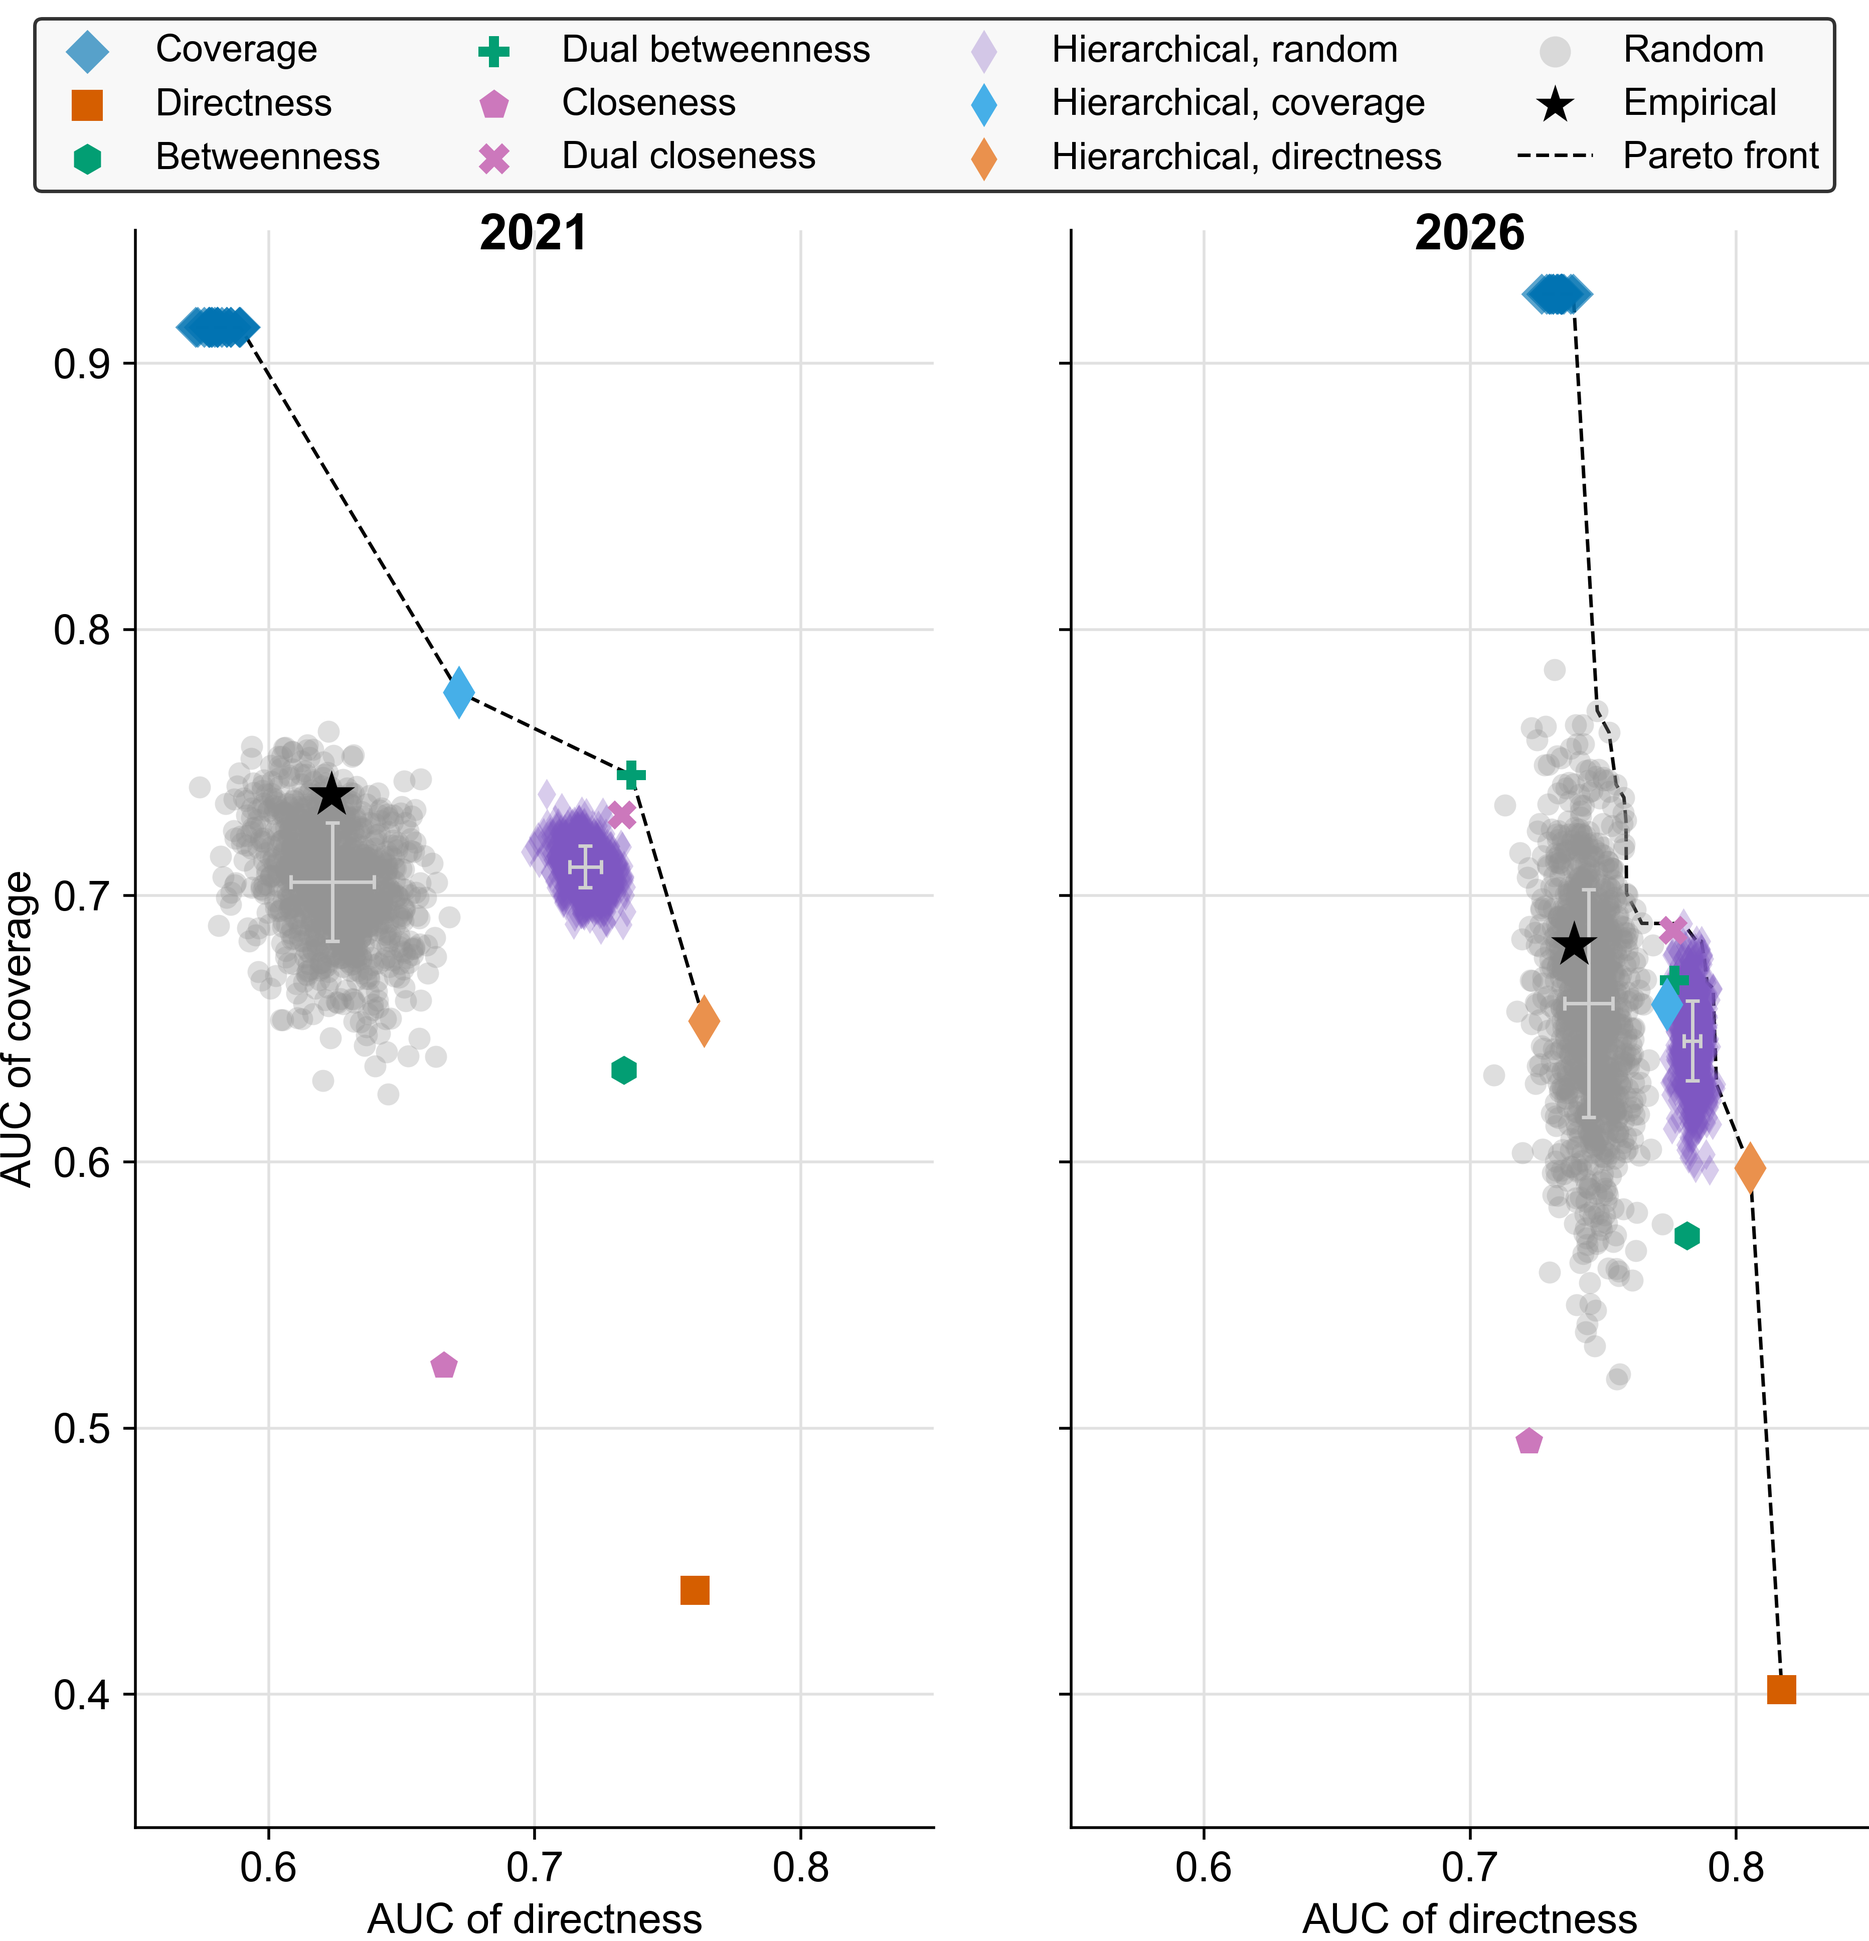
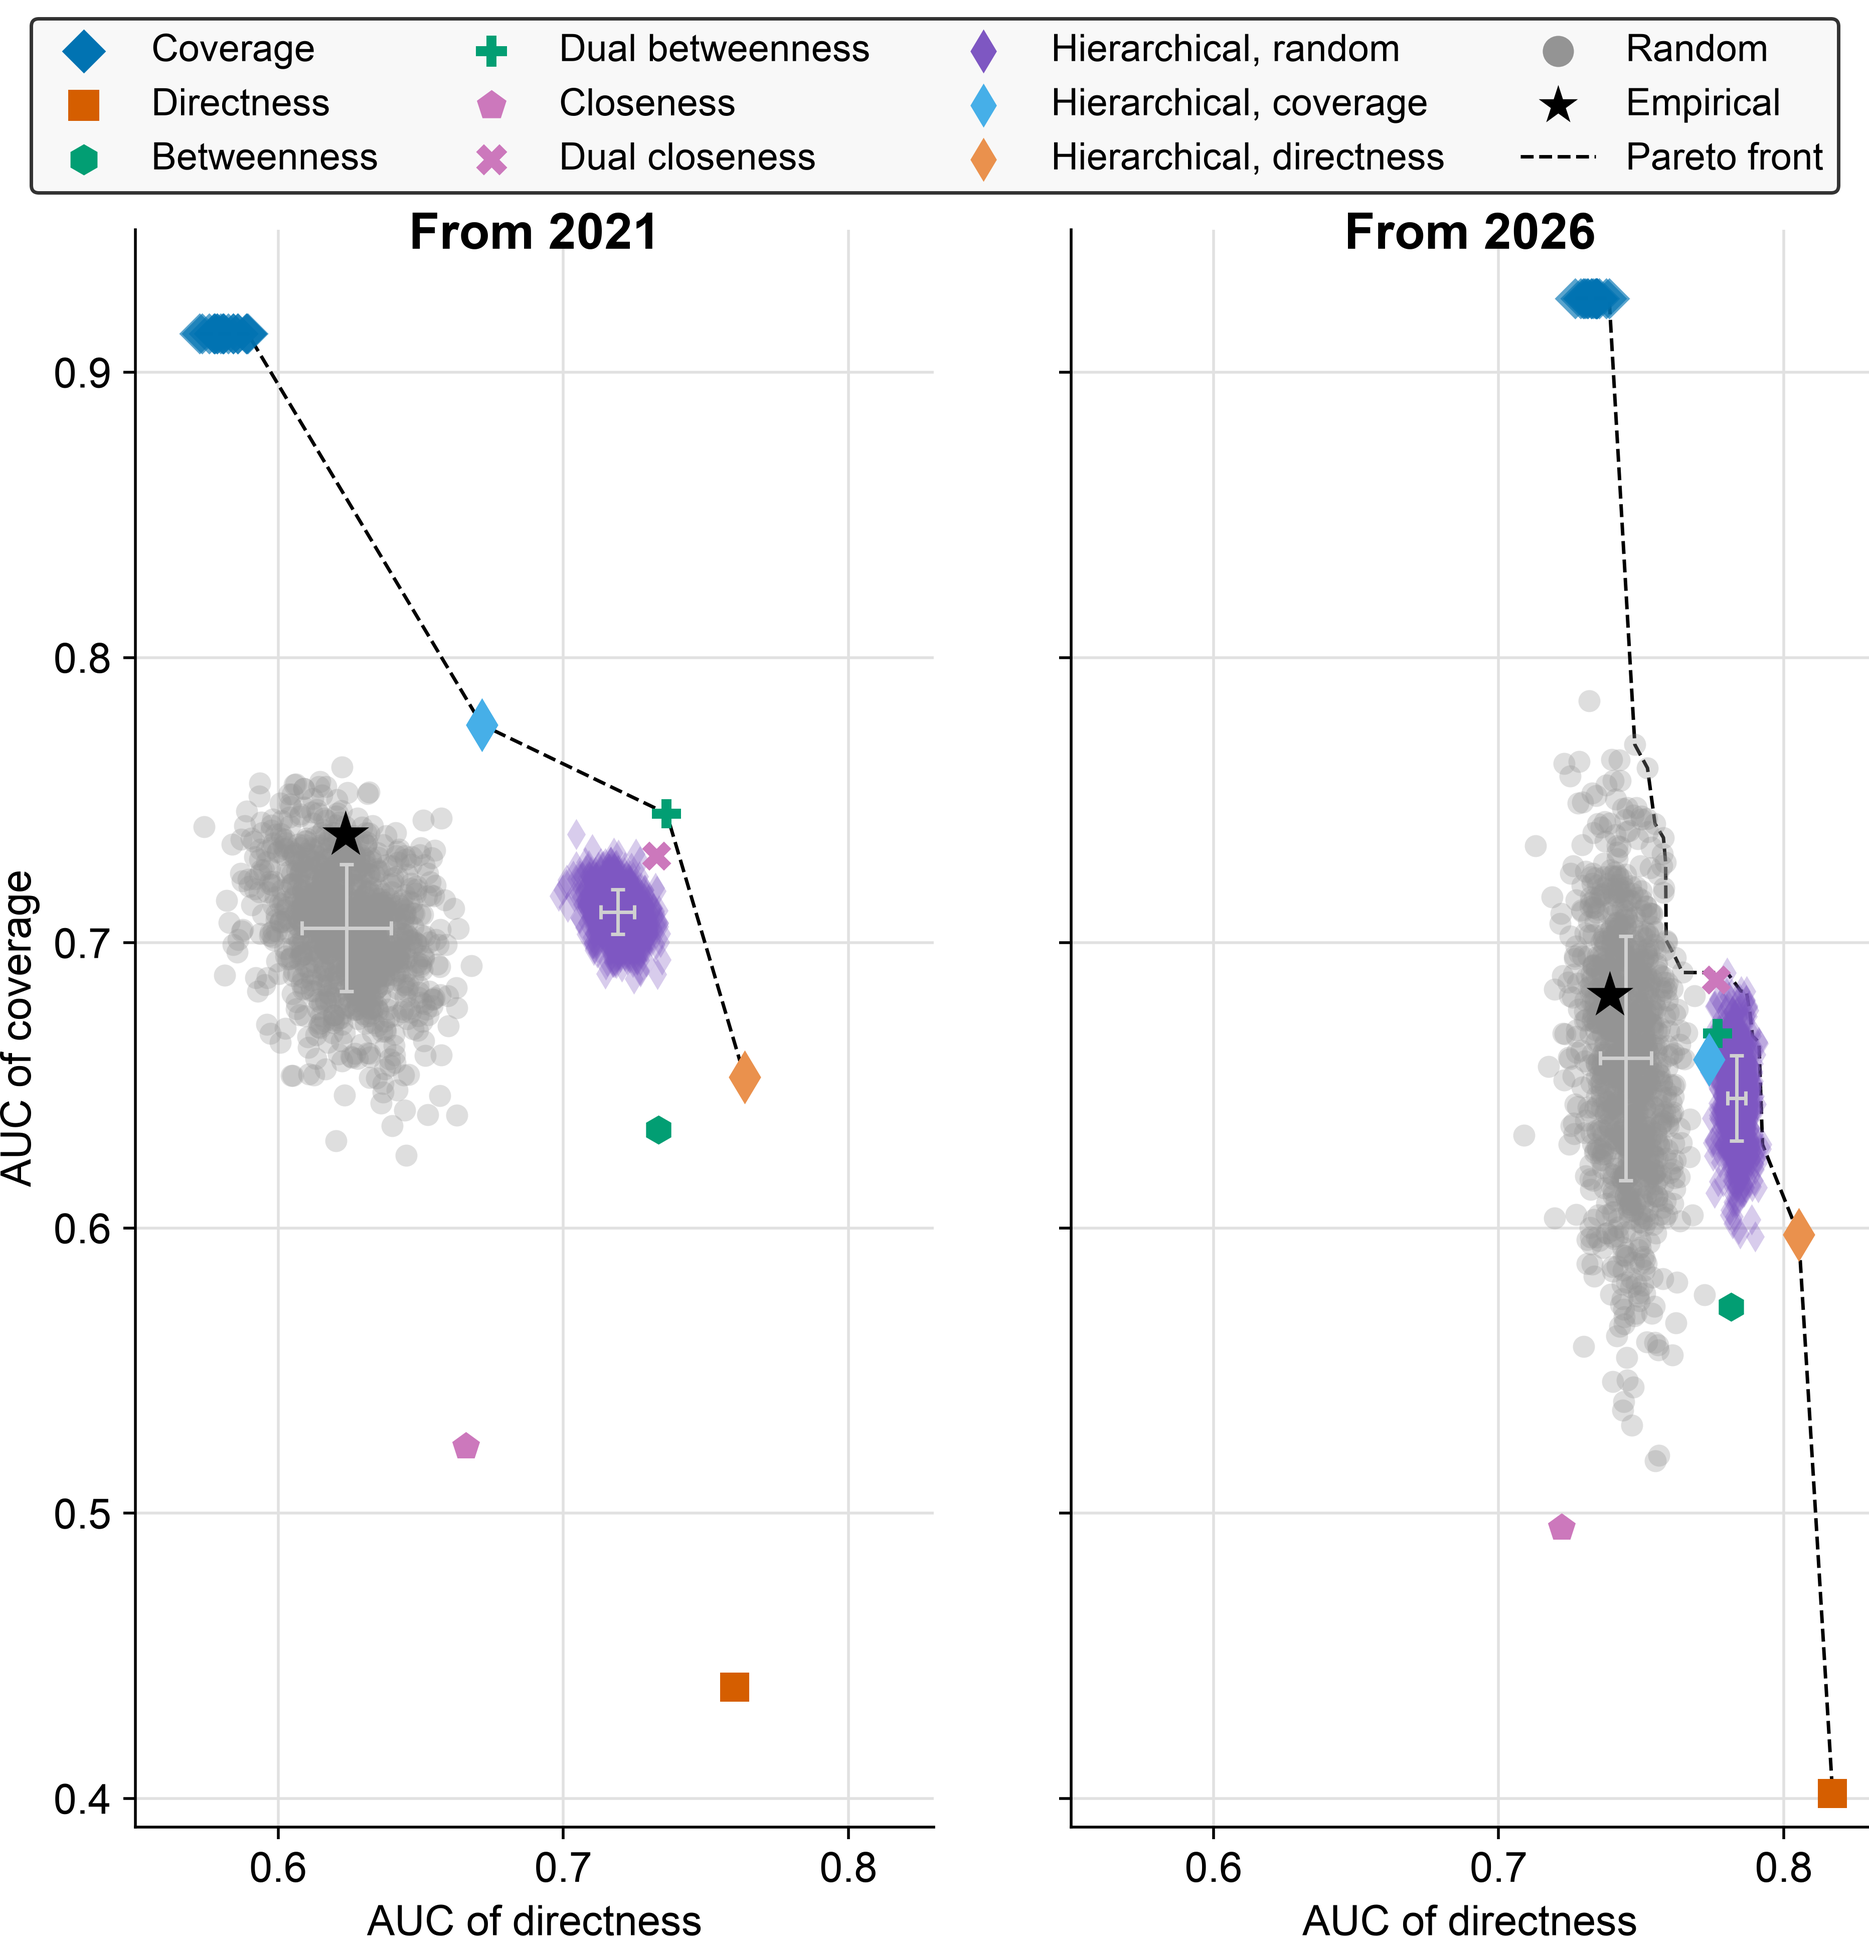
Prepare for new buffer size

diff --git a/scripts/K_plot_lineplot_covdir_merged_2021.py b/scripts/K_plot_lineplot_covdir_merged_2021.py
@@ -49,9 +49,9 @@ PARAMS_DICT = {
         "#46afe8",
         "#ea914d",
         "black",
-        "dimgrey",
+        "#B0B0B0",
     ],
-    "figsize": [11.69, 8.27 * 2],
+    "figsize": [11.69 * 2, 8.27],
     "rcparams": {
         "font.size": 20,
         "font.family": "sans-serif",
@@ -105,7 +105,7 @@ def main():
         else:
             df_avg = pd.read_json(foldermet + "metrics_growth.json")
         avg[met] = df_avg
-    fig, axs = plt.subplots(2, 1, figsize=PARAMS_DICT["figsize"], sharex="col")
+    fig, axs = plt.subplots(1, 2, figsize=PARAMS_DICT["figsize"], sharex="col")
     for idx, (met_plot, met_label) in enumerate(MET_PLOT.items()):
         ax = axs[idx]
         if met_plot == "coverage":
@@ -162,7 +162,7 @@ def main():
                             ),
                             xytext=offset,
                             textcoords="offset points",
-                            fontweight=900,
+                            fontweight=700,
                             color="black",
                             ha="center",
                             va="center",
@@ -197,7 +197,7 @@ def main():
             random_df["xx"] / 10**3,
             random_df[met_plot] / ratio,
             linewidth=LINEWIDTH,
-            color="grey",
+            color="#949494",
             label="Random",
             zorder=2,
         )
@@ -205,9 +205,9 @@ def main():
         ax.set_xlabel("Built length ($km$)")
         ax.set_axisbelow(True)
     fig.tight_layout()
-    axs[0].legend()
-    axs[0].set_xlabel("")
-    fig.savefig(FOLDERPLOT + "/2021_lineplot_merged.png")
+    axs[1].legend()
+    # axs[0].set_xlabel("")
+    fig.savefig(FOLDERPLOT + "/2021_lineplot_merged.png", pad_inches=0.05)
     plt.close(fig=fig)
 
 

diff --git a/scripts/L_plot_AUC_2021_2026.py b/scripts/L_plot_AUC_2021_2026.py
@@ -13,8 +13,8 @@ END_FOLDERS = [
     "2021",
     "2026",
 ]
-PLOT_Y = [0.35, 0.95]
-PLOT_X = [0.55, 0.85]
+PLOT_Y = [0.39, 0.95]
+PLOT_X = [0.55, 0.83]
 PARAMS_DICT = {
     "order": [
         "coverage",
@@ -98,7 +98,7 @@ def main():
     savename_plot = FOLDERPLOT + "AUC_2021_2026.png"
     for idx, end_folder in enumerate(END_FOLDERS):
         ax = axs[idx]
-        ax.set_title(end_folder, y=0.975, fontweight=900)
+        ax.set_title(f"From {end_folder}", y=0.975, fontweight=700)
         folder_data = FOLDEROOT + end_folder + "/"
         savename = folder_data + "/auc_table_growth"
         savename += ".json"
@@ -208,6 +208,8 @@ def main():
         labelspacing=0.5,
         ncol=4,
     )
+    for handle in lgnd.legend_handles:
+        handle._alpha = 1
     for handle in lgnd.legend_handles[:-2]:
         handle._sizes = [80]
     lgnd.legend_handles[-2]._sizes = [140]

diff --git a/scripts/G_grow_bikenet.py b/scripts/G_grow_bikenet.py
@@ -13,16 +13,16 @@ from paris_orderbike.growth import Orderbike
 
 FOLDEROOT = "./data/processed/"
 PRESET = [
-    "directness",
+    # "directness",
     "coverage",
-    "hierarchy",
-    "random",
-    "betweenness",
-    "closeness",
-    "dual_betweenness",
-    "dual_closeness",
+    # "hierarchy",
+    # "random",
+    # "betweenness",
+    # "closeness",
+    # "dual_betweenness",
+    # "dual_closeness",
     "hierarchy_coverage",
-    "hierarchy_directness",
+    # "hierarchy_directness",
 ]
 ROAD_HIERARCHY_MAP = {
     "primary": 4,
@@ -39,7 +39,7 @@ END_FOLDERS = [
     "2021",
     "2026",
 ]
-BUFF_SIZE = 400
+BUFF_SIZE = 500
 NUM_RAND_TRIAL = 1000
 NUM_HIER_TRIAL = 1000
 NUM_COV_TRIAL = 20

diff --git a/src/paris_orderbike/metrics.py b/src/paris_orderbike/metrics.py
@@ -30,7 +30,7 @@ def directness(G):
 def get_directness_matrix(G, lonlat=False, weight="length"):
     """Get the symmetrical directness matrix of a graph G. If lonlat is True, node positions are in geographic CRS."""
     return _avoid_zerodiv_matrix(
-        get_euclidean_distance_matrix(G, lonlat=lonlat),
+        get_euclidean_distance_matrix(G),
         get_shortest_network_path_length_matrix(G, weight=weight),
     )
 

diff --git a/scripts/G_alt_recompute_metrics_new_bs.py b/scripts/G_alt_recompute_metrics_new_bs.py
@@ -1,0 +1,1 @@
+# TODO Recompute for all metrics including real random for a buffer of 500m instead of 400m
